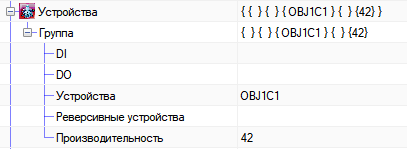
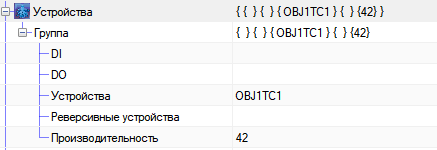
Automatic define C device through other device names (#816)

diff --git a/src/Device/DeviceManager.cs b/src/Device/DeviceManager.cs
@@ -159,26 +159,31 @@ namespace Device
             {
                 foreach(var property in dev.Properties)
                 {
-                    string value = property.Value.ToString();
-                    var devInPropery = GetDevice(value.Trim(new char[] { '\'' }));
-                    if (devInPropery.Description == cap)
+                    object value = property.Value;
+                    if(value != null)
                     {
-                        res += $"Задано несуществующее устройство для " +
-                            $"ПИД-регулятора {dev.Name}, свойство " +
-                            $"{property.Key}.\n";
-                    }
+                        var devInPropery = GetDevice(
+                            value.ToString().Trim(new char[] { '\'' }));
+                        if (devInPropery.Description == cap)
+                        {
+                            res += $"Задано несуществующее устройство для " +
+                                $"ПИД-регулятора {dev.Name}, свойство " +
+                                $"{property.Key}.\n";
+                        }
 
-                    bool allowedDevices =
-                        devInPropery.DeviceType != DeviceType.AO &&
-                        devInPropery.DeviceType != DeviceType.VC &&
-                        devInPropery.DeviceType != DeviceType.M &&
-                        devInPropery.DeviceType != DeviceType.C;
-                    if (property.Key == dev.Properties.Keys.Last() &&
-                        allowedDevices)
-                    {
-                        res += $"В выходе {property.Key} ПИД-регулятора" +
-                            $" {dev.Name} задано некорректное устройство. " +
-                            $"Нужно указать AO, VC, M или R.\n";
+                        bool allowedDevices =
+                            devInPropery.DeviceType != DeviceType.AO &&
+                            devInPropery.DeviceType != DeviceType.VC &&
+                            devInPropery.DeviceType != DeviceType.M &&
+                            devInPropery.DeviceType != DeviceType.C;
+                        if (property.Key == dev.Properties.Keys.Last() &&
+                            allowedDevices)
+                        {
+                            res += $"В выходе {property.Key} ПИД-регулятора" +
+                                $" {dev.Name} задано некорректное " +
+                                $"устройство. Нужно указать AO, VC, M или " +
+                                $"другой ПИД-регулятор.\n";
+                        }
                     }
                 }
             }
@@ -301,9 +306,14 @@ namespace Device
         /// <summary>
         /// Проверка на корректное имя устройства.
         /// </summary>
-        /// <param name="devName">Имя устройство.</param>
-        static public bool CheckDeviceName(string fullDevName,
-            out string devName, out string objectName, out int objectNumber,
+        /// <param name="devName">Имя устройства.</param>
+        /// <param name="deviceNumber">Номер устройства.</param>
+        /// <param name="deviceType">Тип устройства.</param>
+        /// <param name="fullDevName">Полное имя устройства.</param>
+        /// <param name="objectName">Имя объекта.</param>
+        /// <param name="objectNumber">Номер объекта.</param>
+        public bool CheckDeviceName(string fullDevName, out string devName,
+            out string objectName, out int objectNumber,
             out string deviceType, out int deviceNumber)
         {
             bool res = false;
@@ -319,6 +329,12 @@ namespace Device
             if (match.Success)
             {
                 string type = match.Groups["type"].Value;
+                bool isPID = IsPIDControl(type);
+                if (isPID)
+                {
+                    type = DeviceType.C.ToString();
+                }
+
                 switch (type)
                 {
                     case "V":
@@ -425,6 +441,11 @@ namespace Device
 
             CheckDeviceName(devName, out name, out objectName,
                 out objectNumber, out deviceType, out deviceNumber);
+            bool isPID = IsPIDControl(deviceType);
+            if (isPID)
+            {
+                deviceType = DeviceType.C.ToString();
+            }
 
             // Если изделия нет или пустое, то оставляем пустое
             if (articleName == "" || articleName == null)
@@ -990,6 +1011,40 @@ namespace Device
             }
 
             return isMultiple;
+        }
+
+        /// <summary>
+        /// Тип устройства является ПИД-ом или нет
+        /// </summary>
+        /// <param name="devices">Тип устройства</param>
+        /// <returns></returns>
+        private bool IsPIDControl(string type)
+        {
+            bool isPID = false;
+
+            int length = type.Length;
+            if (length <= 1)
+            {
+                return isPID;
+            }
+
+            const int firstCharIndex = 0;
+            if (type[firstCharIndex] == Convert.ToChar(DeviceType.V.ToString())
+                || type.Contains(DeviceType.C.ToString()) == false)
+            {
+                return isPID;
+            }
+
+            for (int i = 1; i < length; i++)
+            {
+                if (type[i] == Convert.ToChar(DeviceType.C.ToString()))
+                {
+                    isPID = true;
+                    break;
+                }
+            }
+
+            return isPID;
         }
 
         /// <summary>

diff --git a/EasyEplanner.Tests/Device.Test/DeviceManager.Test.cs b/EasyEplanner.Tests/Device.Test/DeviceManager.Test.cs
@@ -50,12 +50,16 @@ namespace Tests
         [TestCase("LINE1V2", true)]
         [TestCase("+TANK99-TE99", true)]
         [TestCase("KOAG99PT99", true)]
-        [TestCase("MCC1", false)]
+        [TestCase("MKK1", false)]
         [TestCase("DI2", true)]
+        [TestCase("FC2", true)]
+        [TestCase("TC1", true)]
+        [TestCase("TRC2", true)]
+        [TestCase("TKK1", false)]
         public void CheckDeviceNameTest(string device, bool expected)
         {
-            bool actual = Device.DeviceManager.CheckDeviceName(device, out _,
-                out _, out _, out _, out _);
+            bool actual = Device.DeviceManager.GetInstance()
+                .CheckDeviceName(device, out _, out _, out _, out _, out _);
             Assert.AreEqual(expected, actual);
         }
 

diff --git a/src/EProjectManager/SelectInteractionWhileEditModes.cs b/src/EProjectManager/SelectInteractionWhileEditModes.cs
@@ -82,8 +82,9 @@ namespace EasyEPlanner
             if (editorItem.IsUseDevList)
             {
                 string devName;
-                bool res = Device.DeviceManager.CheckDeviceName(oF.Name,
-                    out devName, out _, out _, out _, out _);
+                bool res = Device.DeviceManager.GetInstance()
+                    .CheckDeviceName(oF.Name, out devName, out _, out _,
+                    out _, out _);
 
                 if (res)
                 {

diff --git a/docs/user_manual/ReadMe.md b/docs/user_manual/ReadMe.md
@@ -57,12 +57,12 @@
     + [PT. Датчик давления](#6219-PT-Датчик-давления)
     + [Y (DEV_VTUG). Пневмоостров Festo](#6220-Y-DEV_VTUG-Пневмоостров-Festo)
     + [F. Автоматический выключатель](#6221-F-Автоматический-выключатель)
-    + [C. ПИД-регулятор](#6222-C-ПИД-регулятор)
+    + [ПИД-регулятор](#6222-C-ПИД-регулятор)
 + [Дополнительные параметры](#63-Дополнительные-параметры)
     + [Описание устройства](#631-Описание-устройства)
     + [Назначение дополнительных полей](#632-Назначение-дополнительных-полей)
 + [Изделия устройств](#64-Изделия-устройств)
-+ [Работа с ПИД-регулятором C](#65-Работа-с-ПИД-регулятором-C)
++ [Работа с ПИД-регулятором](#65-Работа-с-ПИД-регулятором)
 
 #### Редактирование технологических объектов
 + [Общие сведения о технологических объектах](#7-Общие-сведения-о-технологических-объектах)
@@ -632,10 +632,10 @@ Phoenix Contact | AXL SE SC-A (1088134) | - | Заглушка
 Каналы ввода/вывода: **AI** - *1*, **AO** - *1* (AOAI)  
 Пример: **OBJ1+CAB1-F1**. Проект OBJ1, шкаф №1, устройство автоматический выключатель.
 
-#### 6.2.22 C. ПИД-регулятор ####
-Обозначение: **C**
+#### 6.2.22 ПИД-регулятор ####
+Обозначение: Любое обозначение устройства, с символом - **C** на крайней позиции.
 Каналы ввода/вывода: отсутствуют, виртуальное устройство. Только внутренние параметры.
-Пример: **OBJ1+TANK1-C1**. Проект OBJ1, Танк №1, ПИД-регулятор танка №1.
+Пример: **OBJ1+TANK1-TC1**. Проект OBJ1, Танк №1, ПИД-регулятор температуры танка №1.
 
 ### 6.3 Дополнительные параметры ###
 Дополнительные параметры указываются через свойства устройства.
@@ -830,7 +830,7 @@ F | **IO-Link** автоматический выключатель
     * __P_ERR__ - Аварийное значение.
 
 
-* ___C___
+* ___ПИД-регулятор___ (_вариации с символом C_)
     * __P_k__ - Параметр k. Стандартное значение - 1.
     * __P_Ti__ - Параметр Ti. Стандартное значение - 15.
     * __P_Td__ - Параметр Td. Стандартное значение - 0.01.
@@ -864,7 +864,7 @@ F | **IO-Link** автоматический выключатель
 * ___M___
     * __IP__ - IP-адрес для частотного преобразователя, управляемого через Ethernet (M_ATV) по шаблону: _IP='-.-.-.-'_.
 
-* ___C___
+* ___ПИД-регулятор___ (_вариации с символом C_)
     * __IN_VALUE__ - Устройство, задающее входную величину для ПИД-регулятора (датчик, сигнал AI).
     * __OUT_VALUE__ - Устройство, использующее выходную величину ПИД-регулятора (исполнительное устройство или другой ПИД, если необходимо каскадное регулирование).
 
@@ -883,9 +883,10 @@ F | **IO-Link** автоматический выключатель
 
 Добавлять новые данные в файл можно в любой момент, но они применятся только после закрытия и повторного открытия программы EPLAN.
 
-### 6.5 Работа с ПИД-регулятором C ###
+### 6.5 Работа с ПИД-регулятором###
 
-ПИД-регулятор **C** используется как обычное устройство на функциональной схеме автоматизации. У него есть определенный перечень параметров и дополнительных свойств, узнать который можно [здесь](#632-Назначение-дополнительных-полей).
+ПИД-регулятор используется как обычное устройство на функциональной схеме автоматизации. У него есть определенный перечень параметров и дополнительных свойств, узнать который можно [здесь](#632-Назначение-дополнительных-полей). ПИД-регулятор задается согласно ГОСТу т.е в обозначении устройства буква C (регулирование) должна стоять на крайней позиции.
+**Пример**: _FC1_, _TC1_ и др.
 
 <p align="justify">Базовые свойства ПИД-регулятора, которые записываются в <b>Доп. поле [3]</b> заданы стандартными значениями, которые описаны в перечне дополнительных свойств и параметров. Если нужно переопределить стандартное значение, то необходимо в <b>Доп. поле [3]</b> записать только переопределяемое значение (<i>см. рисунок ниже</i>).</p>
 
@@ -893,7 +894,7 @@ F | **IO-Link** автоматический выключатель
 
 <p align="center"><b>Рисунок</b> - <i>Переопределение параметров ПИД-регулятора</i></p>
 
-<p align="justify">В <b>Доп. поле [4]</b> задаются входы и выходы регулятора. Входом может быть <b>датчик</b>, <b>сигнал AI</b> или <b>другое устройство</b>. Выходом должны быть только устройства типа <b>VC</b>, <b>AO</b>, <b>M</b> или ПИД-регулятор <b>C</b>. Когда выходом ПИД-регулятора указывается другой ПИД-регулятор, то образуется <b>каскадное</b> регулирование, где выход одного ПИД-регулятора является заданием для связанного ПИД-регулятора.</p>
+<p align="justify">В <b>Доп. поле [4]</b> задаются входы и выходы регулятора. Входом может быть <b>датчик</b>, <b>сигнал AI</b> или <b>другое устройство</b>. Выходом должны быть только устройства типа <b>VC</b>, <b>AO</b>, <b>M</b> или <b>ПИД-регулятор</b>. Когда выходом ПИД-регулятора указывается другой ПИД-регулятор, то образуется <b>каскадное</b> регулирование, где выход одного ПИД-регулятора является заданием для связанного ПИД-регулятора.</p>
 
 <p align="center"><img src="images/MakeCascadePID.png"></p>
 
@@ -1130,7 +1131,7 @@ F | **IO-Link** автоматический выключатель
 7. Устройства
     * DI - **DI**, **SB**;
     * DO - **DO**;
-    * Устройства - **DO**, **M**, **V**, **VC**, **AO**, **C**;
+    * Устройства - **DO**, **M**, **V**, **VC**, **AO**, **ПИД-регулятор** (_вариации С_);
     * Реверсивные устройства - **M**;
 8. Группы DI -> DO - **DI**, **DO**, **SB**;
 9. Группы AI -> AO - **AI**, **AO**, **M**.
@@ -2511,7 +2512,7 @@ _Примечание:_ для корректного экспорта базы 
     * ST_CH - Состояние канала (_4 канала_);
     * ERR - Авария устройства;
     * ERR_CH - Авария канала (_4 канала_).
-21. Устройство - **C**
+21. Устройство - **ПИД-регулятор** вариации комбинаций с регулированием C (_TC, FC и др._)
     * ST - состояние;
     * M - ручной режим;
     * V - аналоговое значение;
